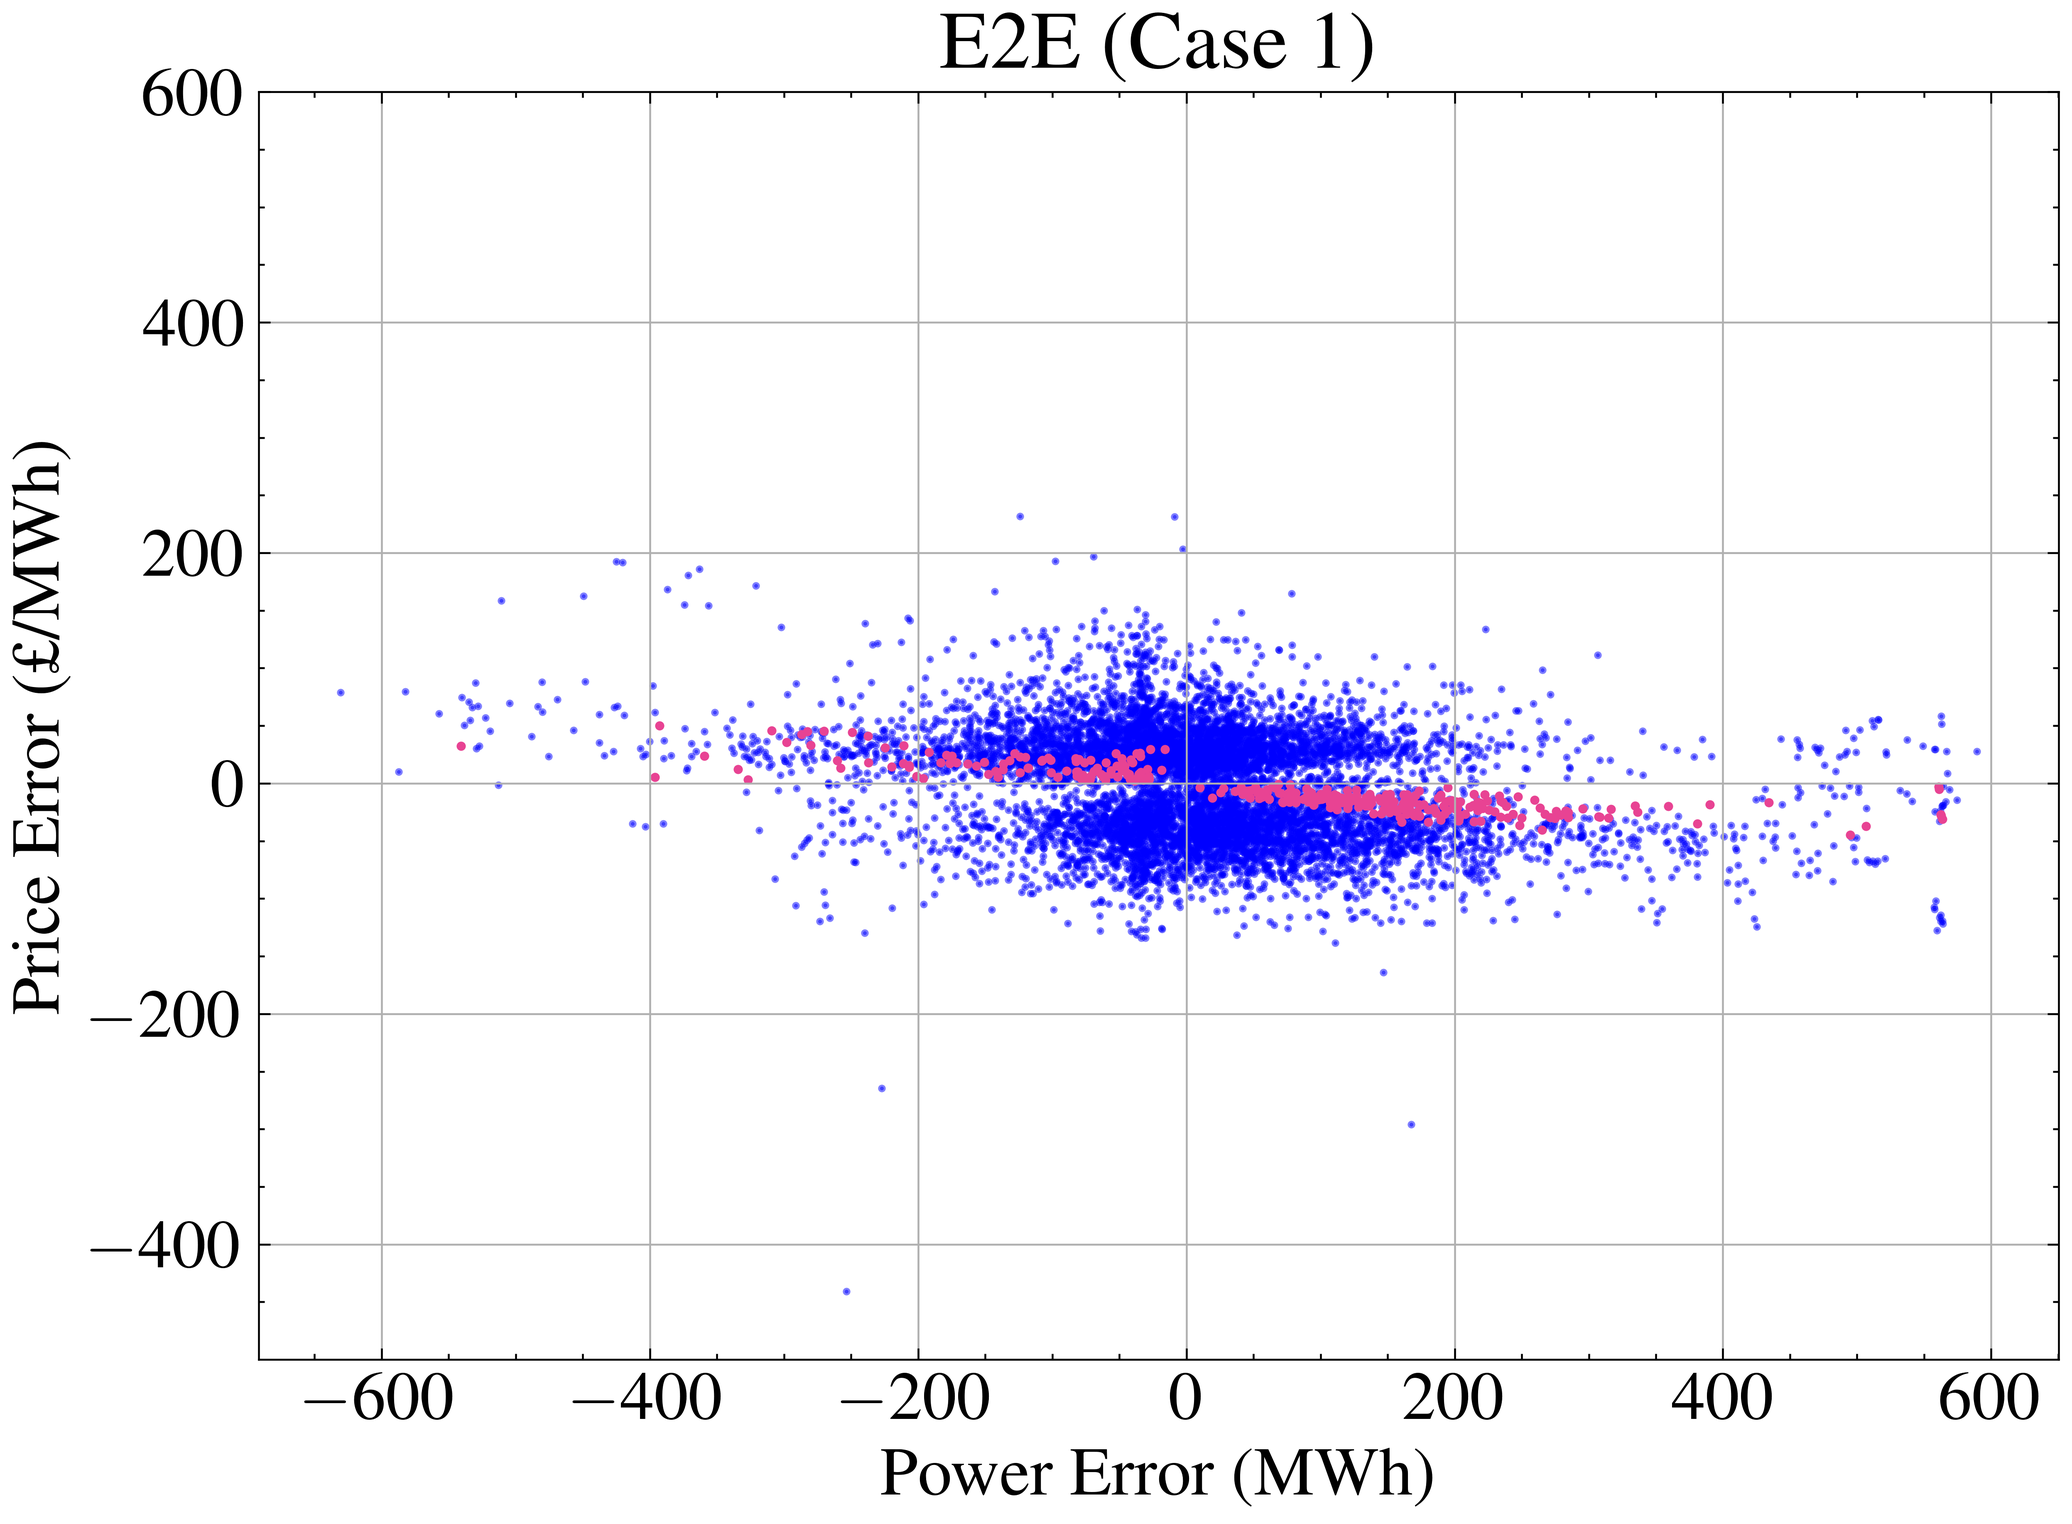
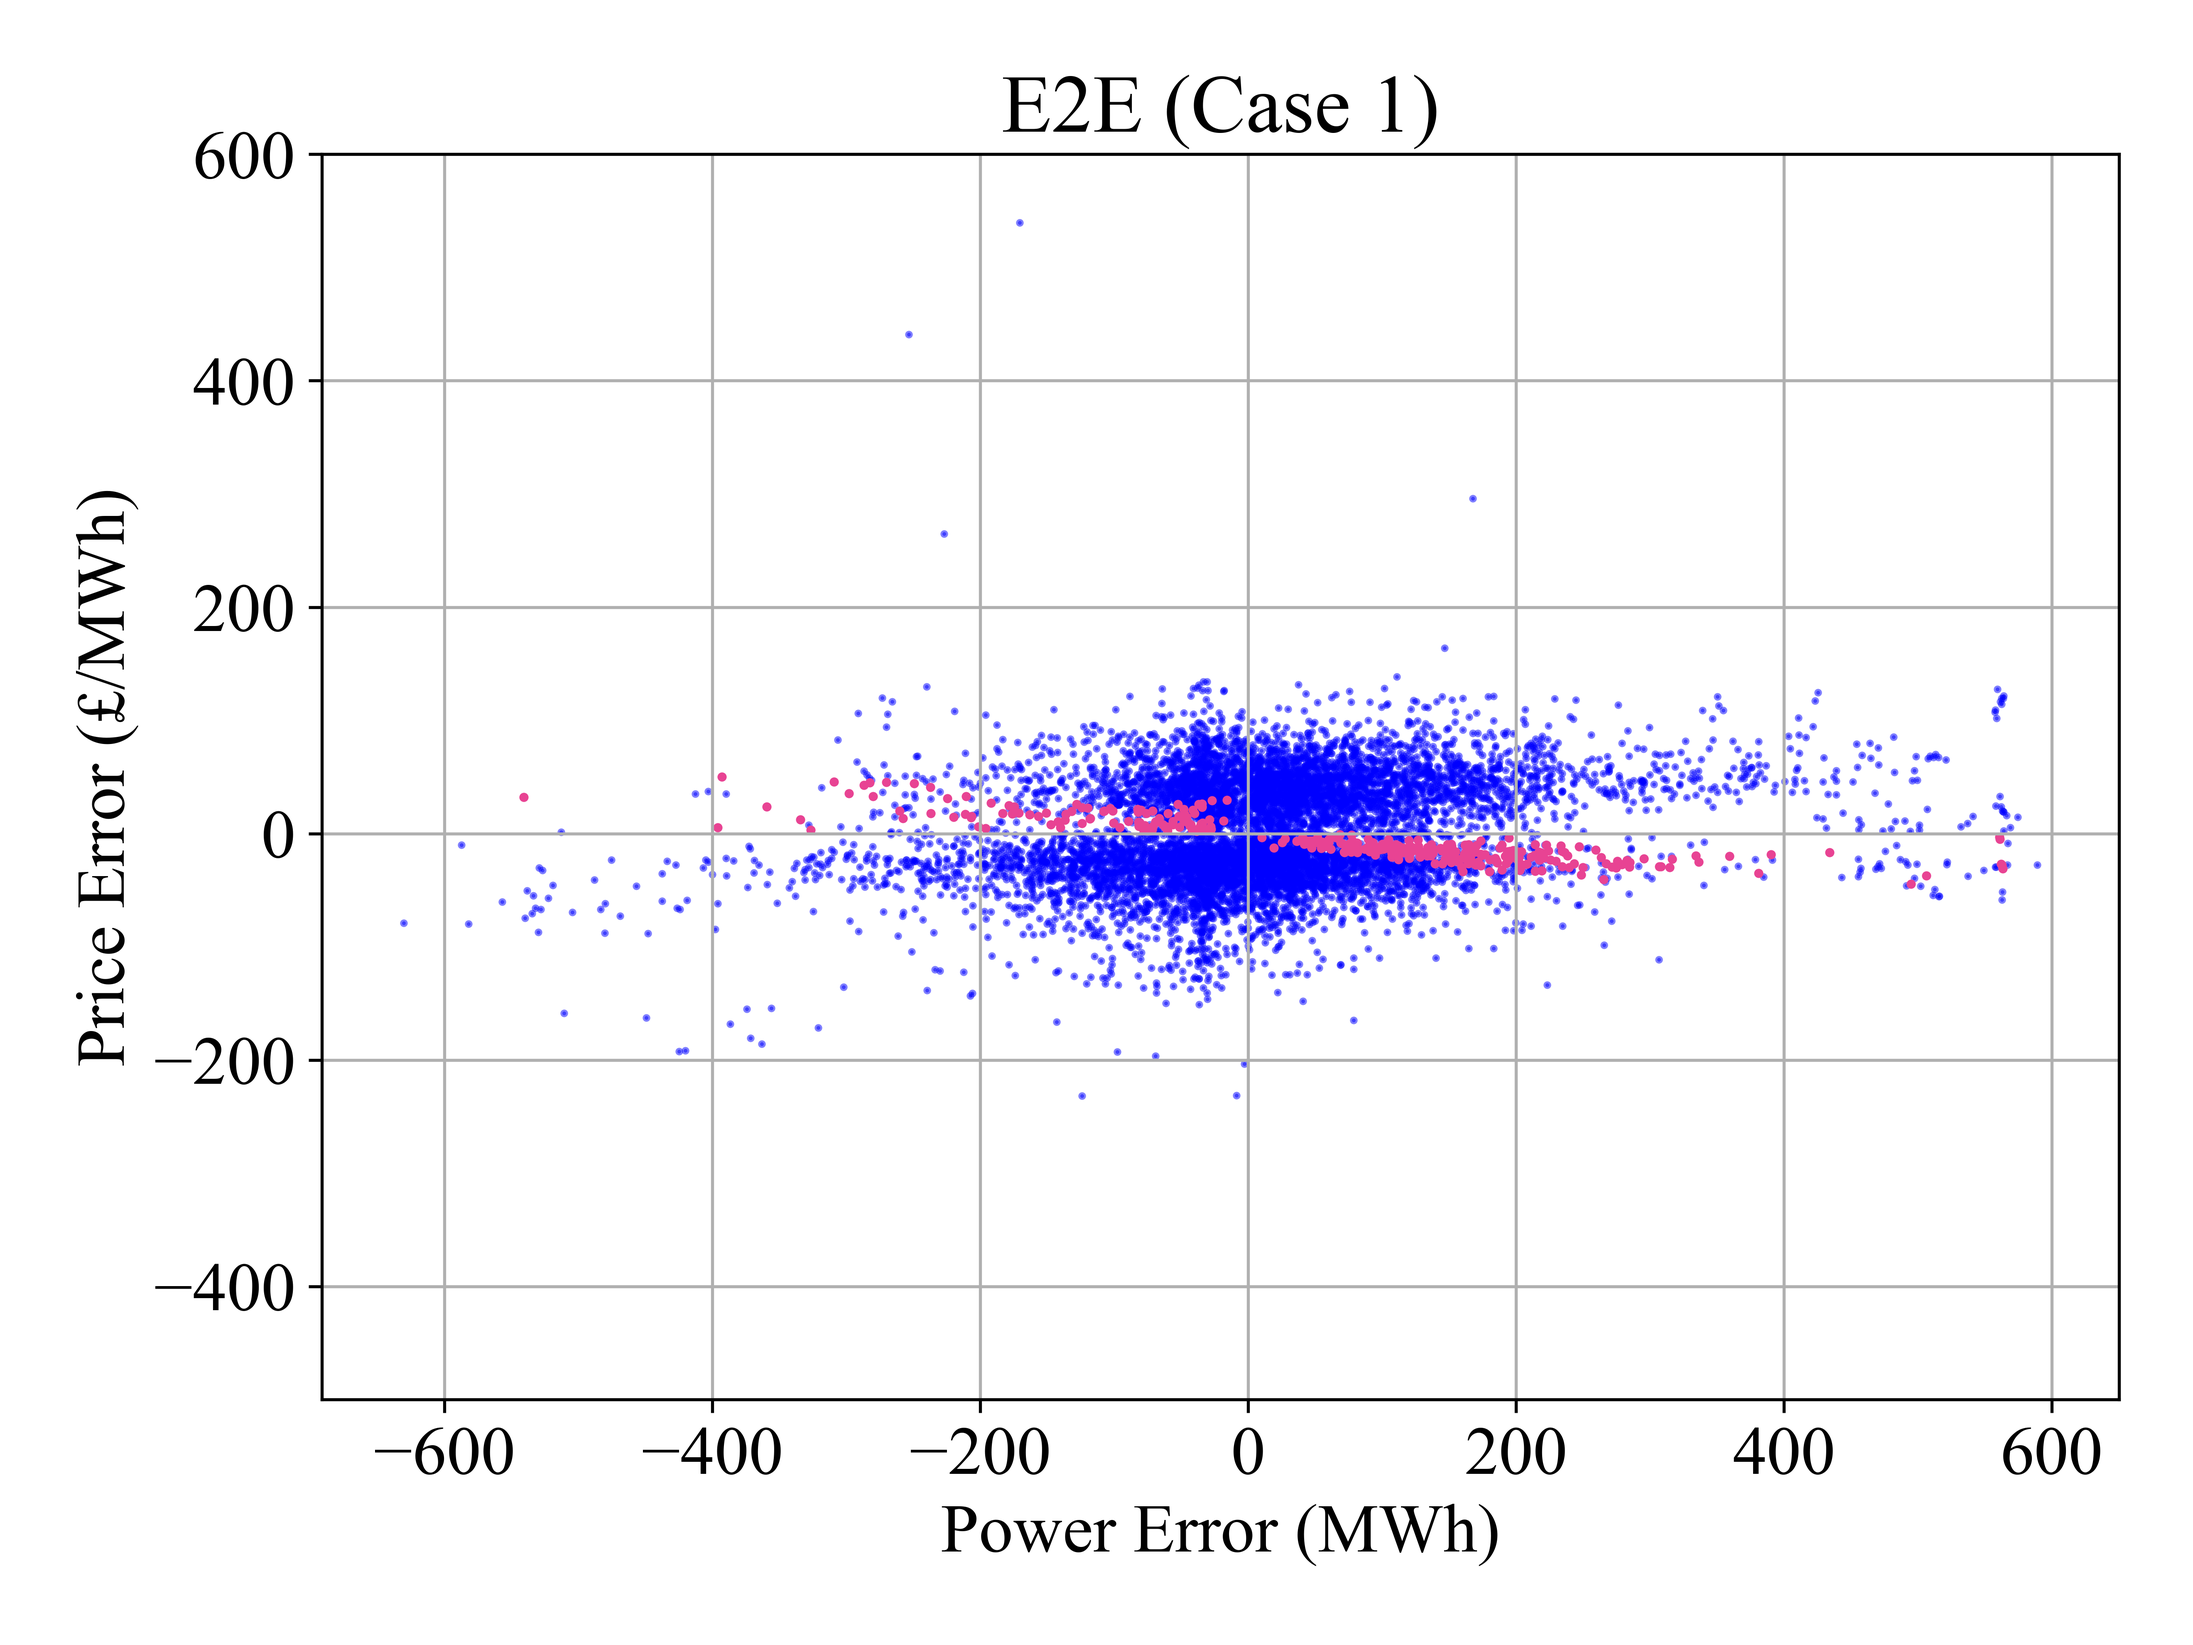
update_title

diff --git a/data_analys/plot_revenue.py b/data_analys/plot_revenue.py
@@ -71,7 +71,7 @@ Loss_e2e_case2 = 0.07 * power_error_case2**2 + 3.57 * pd_error_e2e_case2**2 + po
 Loss_acc_oriented_case2 = 0.07 * power_error_case2**2 + 3.57 * pd_error_acc_oriented_case2**2 + power_error_case2 * pd_error_acc_oriented_case2
 Loss_ST_case2 = 0.07 * power_error_case2**2 + 3.57 * pd_error_ST_case2**2 + power_error_case2 * pd_error_ST_case2
 Loss_q50_case2 = 0.07 * power_error_case2**2 + 3.57 * pd_error_q50_case2**2 + power_error_case2 * pd_error_q50_case2
-
+#%%
 plt.style.use(['science', 'ieee'])
 plt.figure(figsize=(24, 12))
 plt.rcParams['font.family'] = 'Times New Roman'
@@ -185,7 +185,7 @@ plt.figure(figsize=(8, 6))
 mask = (Loss_e2e_case1 < Loss_ST_case1) & (abs(pd_error_ST_case1)<abs(pd_error_e2e_case1))
 plt.rcParams['font.family'] = 'Times New Roman'
 plt.rcParams.update({'font.size': 18})
-plt.scatter(power_error_case1[~mask], -pd_error_e2e_case1[~mask], s=1, alpha=0.5, color='b', label='Normal')
+plt.scatter(power_error_case1[~mask], pd_error_e2e_case1[~mask], s=1, alpha=0.5, color='b', label='Normal')
 plt.scatter(power_error_case1[mask], pd_error_e2e_case1[mask], s=2, alpha=1, color='#e84393', label='SoDR')
 plt.xlabel('Power Error (MWh)')
 plt.ylabel('Price Error (£/MWh)')

diff --git a/readme.md b/readme.md
@@ -3,7 +3,7 @@
 ![Static Badge](https://img.shields.io/badge/language-python-%20)
 ![Static Badge](https://img.shields.io/badge/license-MIT-a?color=blue)
 
-This repository contains the code used in the paper **"A Hybrid Strategies for HEFTCom2024 Probabilistic Energy Forecasting and Trading Tasks based on Ensemble Learning Methods"**, which details the solutions developed by Team GEB for the [Hybrid Energy Forecasting and Trading Competition 2024 (HEFTCom2024)](https://ieee-dataport.org/competitions/hybrid-energy-forecasting-and-trading-competition). Our solutions provide accurate probabilistic forecasts for a hybrid power plant and achieving significant trading revenue.
+This repository contains the code used in the paper **"A Hybrid Strategy for Aggregated Probabilistic Forecasting and Energy Trading in HEFTCom2024"**, which details the solutions developed by Team GEB for the [Hybrid Energy Forecasting and Trading Competition 2024 (HEFTCom2024)](https://ieee-dataport.org/competitions/hybrid-energy-forecasting-and-trading-competition). Our solutions provide accurate probabilistic forecasts for a hybrid power plant and achieving significant trading revenue.
 ![image](figs/p1.png)
 
 ## Final Rank
